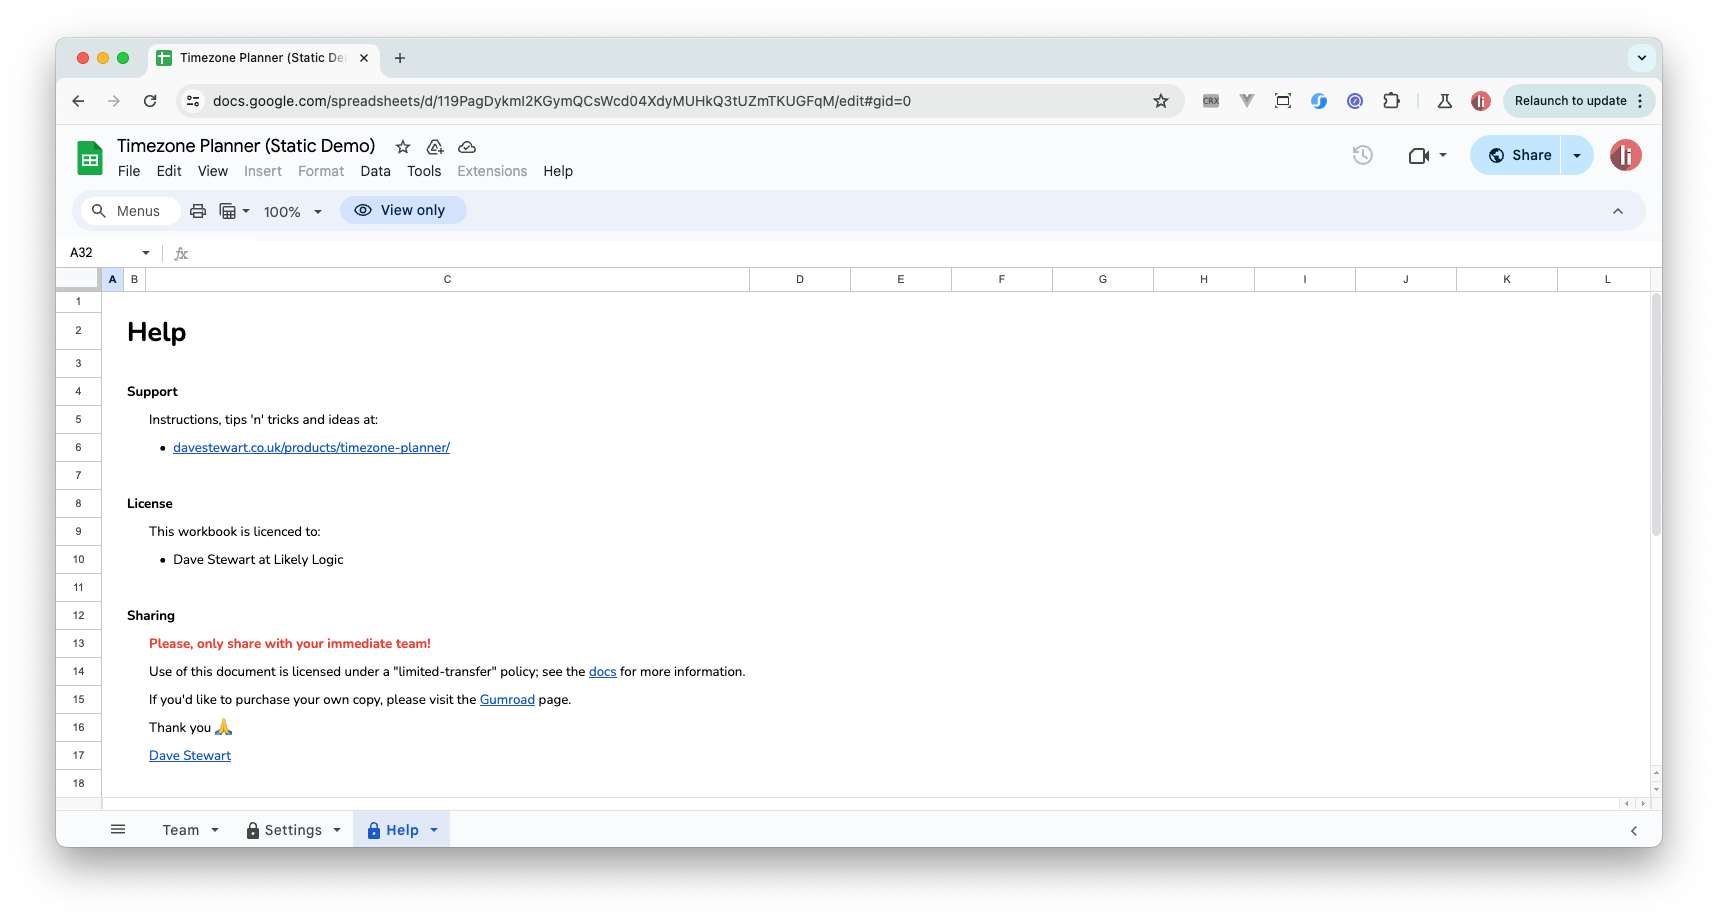
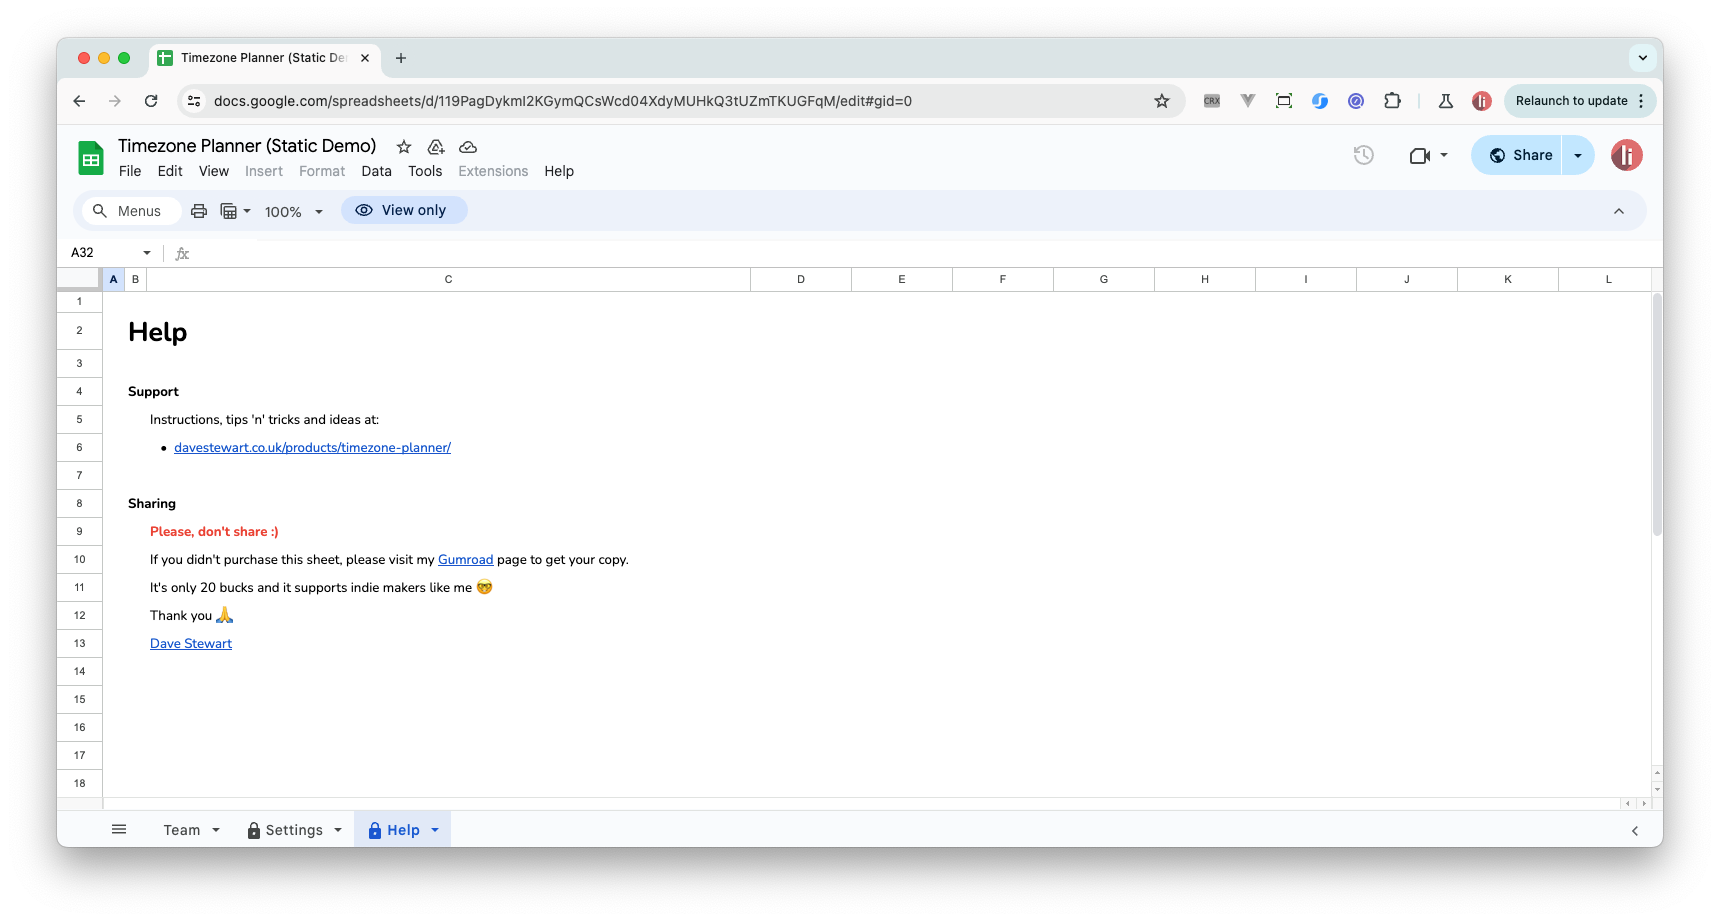
Update timezone planner

diff --git a/content/products/timezone-planner/index.md b/content/products/timezone-planner/index.md
@@ -11,14 +11,13 @@ media:
   gallery:
     - ./screenshots/team.png
     - ./screenshots/settings.png
-    - ./screenshots/help.png
   xvideo:
     src: https://youtube.com/embed/HaDJuB5ODnY
     width: 560
     height: 315
 ---
 
-# Timezone Planner for Remote Teams
+# Timezone Planner
 
 ## Intro		
 
@@ -32,7 +31,7 @@ Just checking the time and doing some mental arithmetic is not always sufficient
 
 ### Product
 
-[Timezone Planner for Remote Teams](https://davestewart.gumroad.com/l/timezone-planner) lets you visualise your remote team's availability, their time of day, working hours, to be more practical and conscientious in planning your work, meetings and deadlines.
+[Timezone Planner](https://davestewart.gumroad.com/l/timezone-planner) lets you visualise your remote team's availability, their time of day, working hours, to be more practical and conscientious in planning your work, meetings and deadlines.
 
 It comes in the form of a [Google Sheet](https://www.google.co.uk/sheets/about/), so it's ubiquitous and even _customisable_ if you want additional control:
 
@@ -80,22 +79,21 @@ The complete Google Sheet is available as a one-time purchase from Gumroad:
 
 <a class="gumroad-button" href="https://davestewart.gumroad.com/l/timezone-planner">Purchase on</a>
 
-### Usage and License
+### Fair-use policy
 
 You're free to use the sheet – forever – as you see fit:
 
 - add as many team members as you like
 - edit, customise, copy and reuse the spreadsheet
 - track multiple teams, friends, or family, in multiple spreadsheets
-- share the sheet as a viewer – but don't distribute copies
 
-The last clause is because the license is **non-transferable**; you can't give a copy of the sheet away (even a modified version) to other team members, friends, or contacts to start tracking their own teams or contacts; they would need to [purchase](https://davestewart.gumroad.com/l/timezone-planner) their own copy – _then_ you could share **your** copy of the sheet with them.
+***But, please don't share copies!***
 
-> For those that want tighter integration with their team... hang tight; I'm considering a [web app](http://timezone-planner.app) version of the planner which would provide the same functionality but without the timezone and sharing limitations.
-> 
-> Subscribe to my [Gumroad list](https://davestewart.gumroad.com/subscribe) to be kept informed.
+Rather, point them here or the [Gumroad](https://davestewart.gumroad.com/l/timezone-planner) page to purchase their own copy.
 
-_Note: These terms aren't meant to be restrictive for the sake of it, but rather to support creators like myself in building, marketing and maintaining useful tools._
+It's only 20 bucks, and it supports indie makers like me 🤓
+
+> If you're interested in team purchase options, [drop me a DM on Twitter](https://twitter.com/dave_stewart)
 
 Thank you 🙏
 
@@ -118,27 +116,15 @@ Then:
 - edit the **Name**, **Role**, and **Location** _(the timezone / `TZ` column is calculated automatically)_
 - edit the available **Hours** (as time) and **Days** _(Mac users can add bullets with `Opt`+`8`, but you can use any character)_
 
-### Share with your team
-
-For team members in the same timezone, you can simply share the sheet.
-
-For team members in different time zones to be able to view from their timezone, they'll need to:
-
-- **make a copy** of the sheet
-- update their **Location** in the [Settings](#sheet-settings) tab
-
-> ***Note:*** the copy will **no longer be linked** to the Master sheet. Unfortunately, this is a limitation of Google Sheets.
-
-### Time settings
-
-To change the timezones matrix starting hour:
-
-- in the **Settings** tab, edit the **Matrix / Start Time** value
+### Localise the sheet
 
 To change the sheet's timezone: 
 
-- make a copy of the sheet via **File > Make a copy**
-- in the **Settings** tab, edit the **User / Location** value
+- in the **Settings** tab, edit the **Time / Location** value
+
+To change the timezones matrix starting hour:
+
+- in the **Settings** tab, edit the **Time / Start Time** value
 
 ## Usage		
 
@@ -158,7 +144,9 @@ Here are a few tips for working with team times:
 - Align working hours with other team members:
   - Change **Start** and **End** times as required
 
-> ***Remember***: if you made a **copy** of your sheet, this will only update for your sheet.
+<!--
+***Remember***: if you made a **copy** of your sheet, this will only update for your sheet.
+-->
 
 ### Customisations
 
@@ -196,6 +184,20 @@ Here are some ideas:
   - click in the Formula Bar
   - paste `="Team (" & INDIRECT("L") & ")"`
 
+
+### Fair-use sharing
+
+If you decide to share your carefully-curated schedule with another team member, you can just copy and paste.
+
+Here's the steps:
+
+- copy values from the first set of blocks
+- you paste into an email, Slack or even another spreadsheet
+- they paste the values into their spreadsheet
+- they ensure their sheet is localised in [settings](#localise-the-sheet)
+
+However – ***please*** see the note above about [sharing](#fair-use-policy) and fair use!
+
 ## Problems		
 
 Occasionally, the Matrix may get stuck on the Loading status. If this happens:
@@ -214,7 +216,9 @@ If use the **fill handle** to create many new rows, conditional formatting may b
 
 As this is a one-time purchase, there's no support as such, but I may release updates or new features from time to time.
 
-I will notify users via the Gumroad mailing list below:
+I am also considering a web-app version which would provide a similar spreadsheet-like experience – but with additional collaborative and team features.
+
+To be the first to hear about either, subscribe to my Gumroad list:
 
 - [davestewart.gumroad.com/subscribe](https://davestewart.gumroad.com/subscribe)
 
